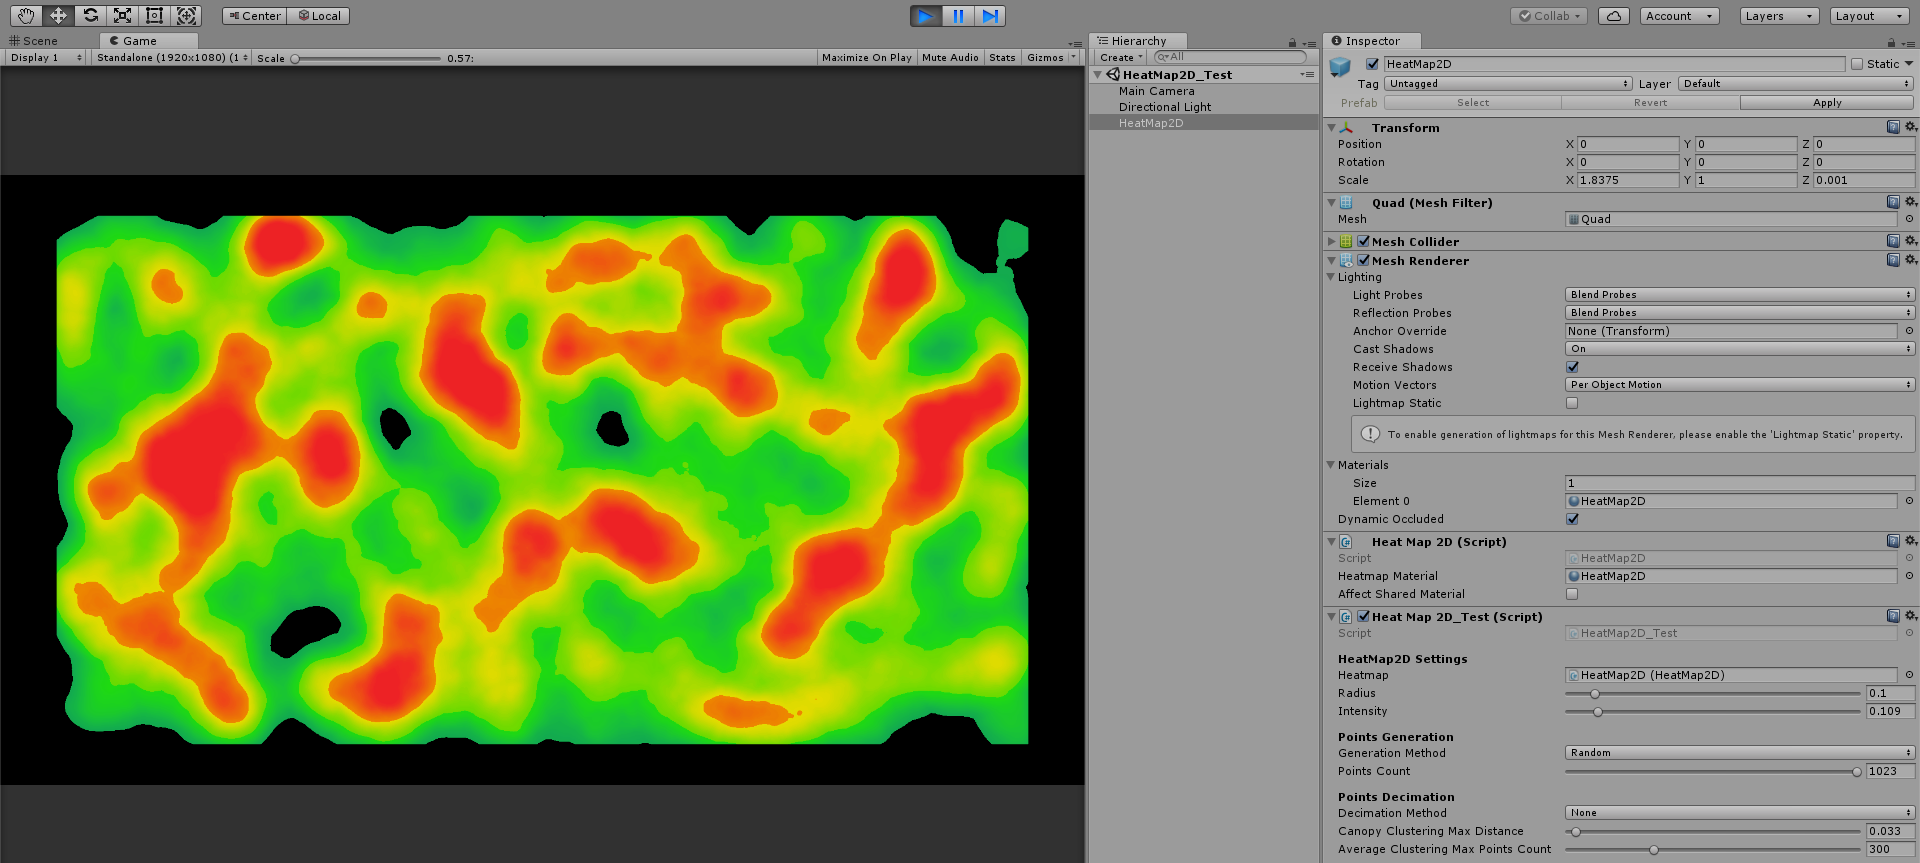
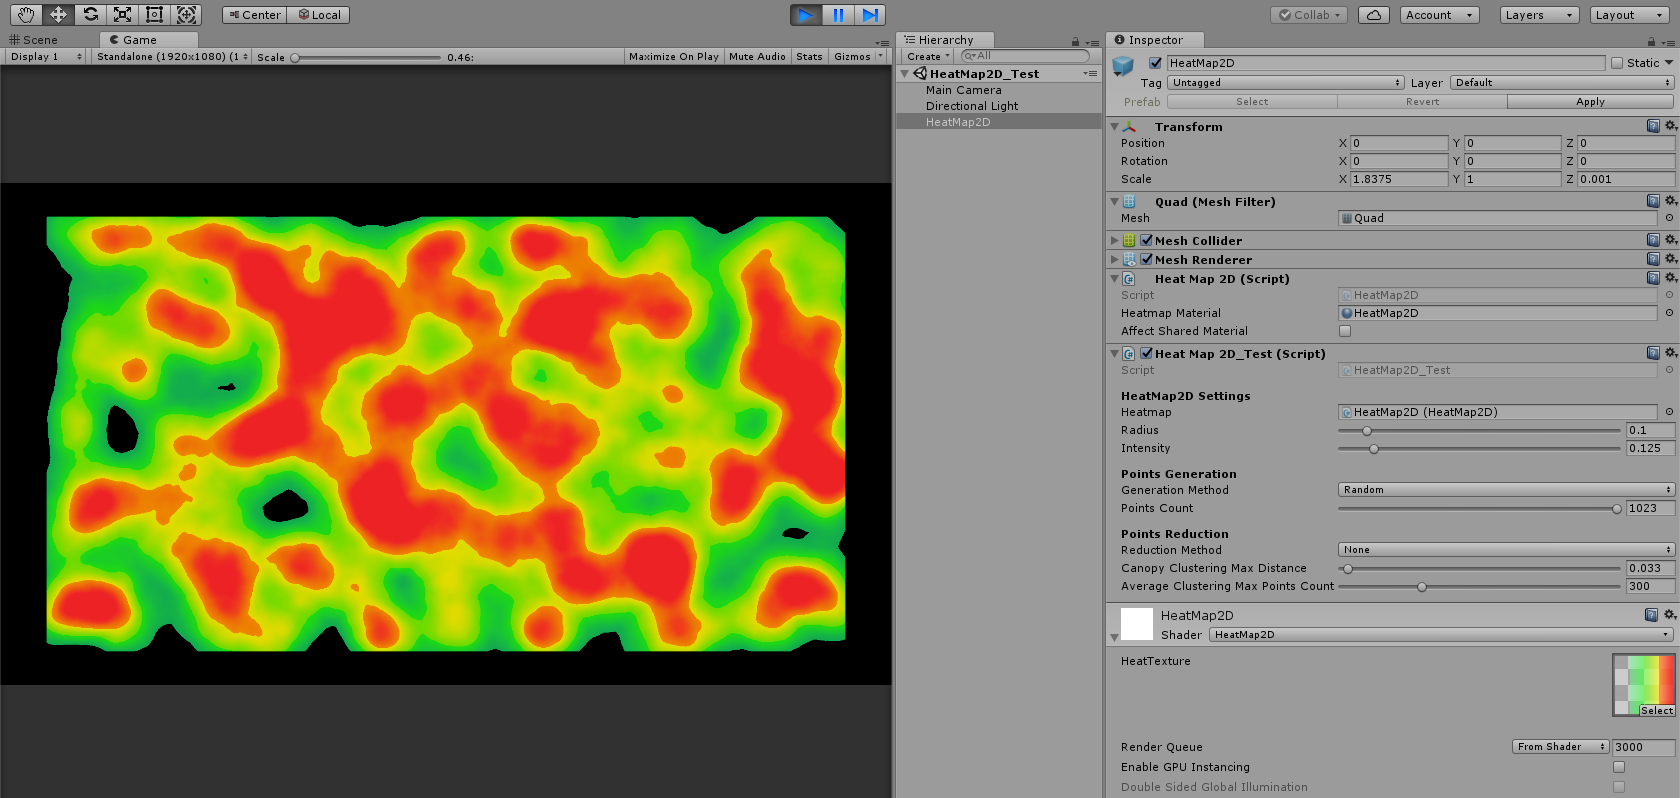
- HeatMap2D_InfiniteTrajectoryTest added

diff --git a/Scripts/HeatMap2D_InfiniteTrajectoryTest.cs b/Scripts/HeatMap2D_InfiniteTrajectoryTest.cs
@@ -1,0 +1,90 @@
+using System.Collections.Generic;
+using UnityEngine;
+
+namespace HeatMap2D
+{
+	/// <summary>
+	/// A test script to show the use of HeatMap2D to render unlimited number of points.
+	/// </summary>
+	public sealed class HeatMap2D_InfiniteTrajectoryTest : MonoBehaviour
+	{
+		[Header("HeatMap2D Settings")]
+		public HeatMap2D heatmap;
+		[Range(0.001f, 1.0f)]
+		[Tooltip("Points' radius")]
+		public float radius = 0.005f;
+		[Range(0.001f, 1.0f)]
+		[Tooltip("Color intensity")]
+		public float intensity = 0.1f;
+		[Range(0, 100000)]
+		[Tooltip("The number of points in the trajectory")]
+		public int pointsCount = HeatMap2D.MAX_POINTS_COUNT;
+		private int _pointsCount = HeatMap2D.MAX_POINTS_COUNT;
+
+		private List<Vector4> _points = new List<Vector4>(); // raw points.
+		private List<Vector4> _meaningPoints = new List<Vector4>(); // points obtained after raw points reduction.
+
+		void Start()
+		{
+			_GeneratePoints();
+		}
+
+		private void Update()
+		{
+			if (heatmap.Radius != radius)
+			{
+				heatmap.Radius = radius;
+			}
+
+			if (heatmap.Intensity != intensity)
+			{
+				heatmap.Intensity = intensity;
+			}
+
+			if(pointsCount != _pointsCount)
+			{
+				_pointsCount = pointsCount;
+				_GeneratePoints();
+			}
+		}
+
+		private void _GeneratePoints()
+		{
+			// Generate points.
+			_points.Clear();
+			float scaleFactor = (float)HeatMap2D.MAX_POINTS_COUNT / (float)pointsCount;
+			float length = 0.0f, lengthStep = 0.0005f * scaleFactor;
+			float angleRad = 0.0f, angleRadStep = Mathf.Deg2Rad * 0.5f;
+			Vector4 point = Vector4.zero;
+			Vector2 current = Vector2.zero;
+			Vector2 dir = new Vector2(1.0f, 0.0f);
+			while (_points.Count < pointsCount)
+			{
+				// Add point.
+				point = transform.TransformPoint(current);
+				point.w = 1.0f;
+				_points.Add(point);
+				// Compute next point.
+				angleRad += angleRadStep;
+				length += lengthStep;
+				dir.Set(Mathf.Cos(angleRad), Mathf.Sin(angleRad));
+				current = dir.normalized * length;
+			}
+
+			// Reduce points if needed.
+			if (_points.Count > HeatMap2D.MAX_POINTS_COUNT)
+			{
+				// Points reduction needed.
+				_meaningPoints = HeatMap2D.AverageClustering(_points, HeatMap2D.MAX_POINTS_COUNT);
+				heatmap.SetPoints(_meaningPoints);
+				Debug.Log("[HeatMap2D_InfiniteTrajectoryTest] " + _points.Count + " points rendered using " + _meaningPoints.Count + " meaningful points.");
+			}
+			else
+			{
+				// Points reduction not needed.
+				heatmap.SetPoints(_points);
+				Debug.Log("[HeatMap2D_InfiniteTrajectoryTest] " + _points.Count + " points rendered.");
+			}
+		}
+	}
+}

diff --git a/Scripts/HeatMap2D.cs b/Scripts/HeatMap2D.cs
@@ -8,13 +8,13 @@ namespace HeatMap2D
 	/// Put this script on a GameObject having a mesh renderer to draw a heatmap on it.
 	/// This class cannot render more than MAX_POINTS_COUNT points on a mesh because of shader performance limitation.
 	/// But you can draw much more points than this limit by first reducing your set of points using the provided clustering methods,
-	/// and then sending the reduced set of points using SetPoints().
+	/// and then sending the reduced set of points to the shader using SetPoints().
 	/// </summary>
 	public sealed class HeatMap2D : MonoBehaviour
 	{
 		// Unity maximum allowed array size for shaders.
 		// We can use ComputeBuffer to overpass this limit,
-		// but anyway shader performance drops too badly beyond this limit.
+		// but anyway shader performance drops too much beyond this limit.
 		public const int MAX_POINTS_COUNT = 1023;
 
 		public Material heatmapMaterial;
@@ -128,6 +128,7 @@ namespace HeatMap2D
 		/// Reduces the given set of points using Canopy clustering.
 		/// As a result, you get less points with more weights, which are representative of the original set of points.
 		/// Use this method to reduce a list of random points (no assumption can be made on the original set of points).
+		/// The only drawback of this method is : you don't have control over the new maximum number of points.
 		/// <param name="points">x,y,z components are 3D coordinates. w component is weight (should be > 0).</param>
 		/// <param name="maxDistance"/>Two points are averaged together if their distance is less than this value.<param/>
 		/// </summary>

diff --git a/Scripts/HeatMap2D_Test.cs b/Scripts/HeatMap2D_Test.cs
@@ -147,7 +147,7 @@ namespace HeatMap2D
 		private void _GenerateTrajectoryPoints()
 		{
 			_points.Clear();
-			float length = 0.0001f, lengthStep = 0.00025f;
+			float length = 0.0f, lengthStep = 0.00025f;
 			float angleRad = 0.0f, angleRadStep = Mathf.Deg2Rad * 0.5f;
 			Vector4 point = Vector4.zero;
 			Vector2 current = Vector2.zero;

diff --git a/README.md b/README.md
@@ -1,9 +1,9 @@
 ![alt text](Doc/HeatMap2D_Doc.png)
 
-# HeatMap2D allows you to draw Heatmaps in Unity3D with the following advantages :
+# Render 2D Heatmaps in Unity3D with the following advantages :
 - Efficient shader code
 - Huge amount of points never drops rendering performance
-- A complete test scene to understand the provided algorithms
+- Complete tests scenes to understand the provided algorithms
 
 # System requirements
 Developed with Unity3D 2017.4.35f1 for Windows target platform.
